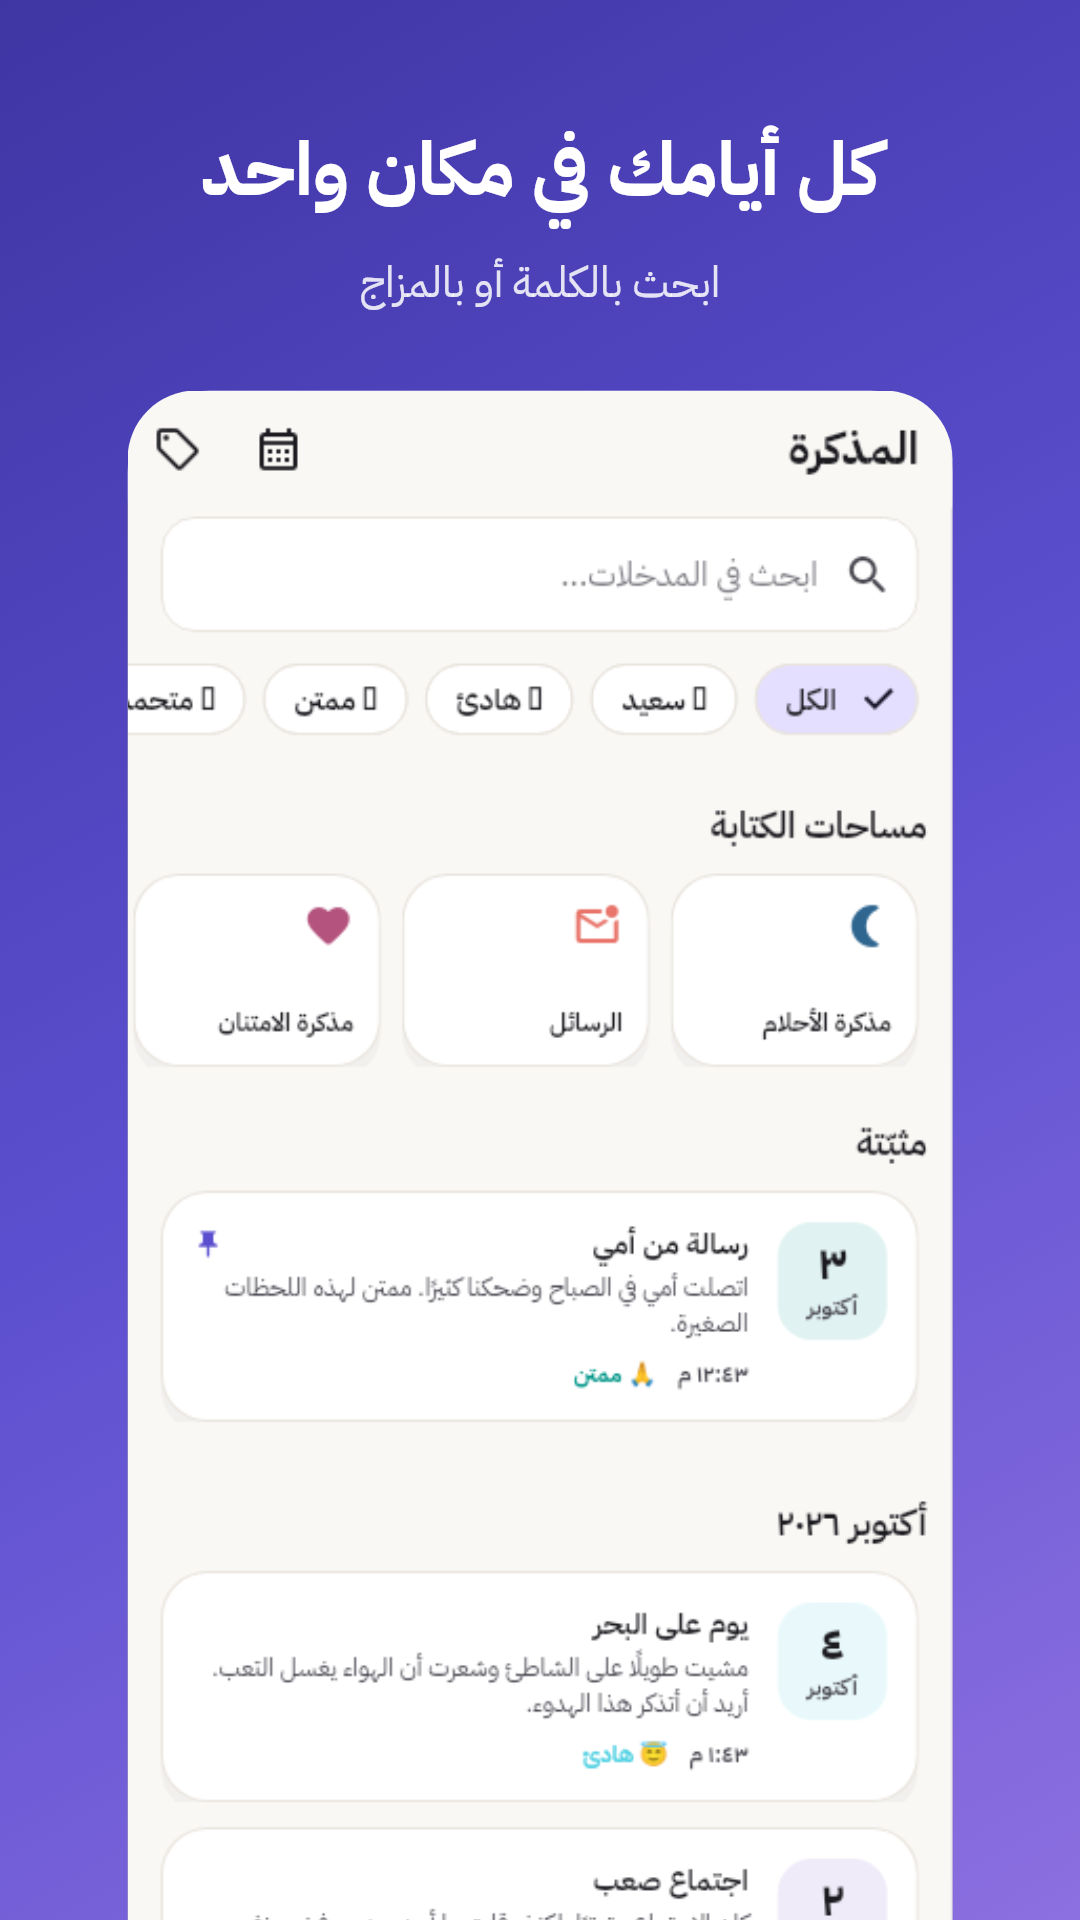
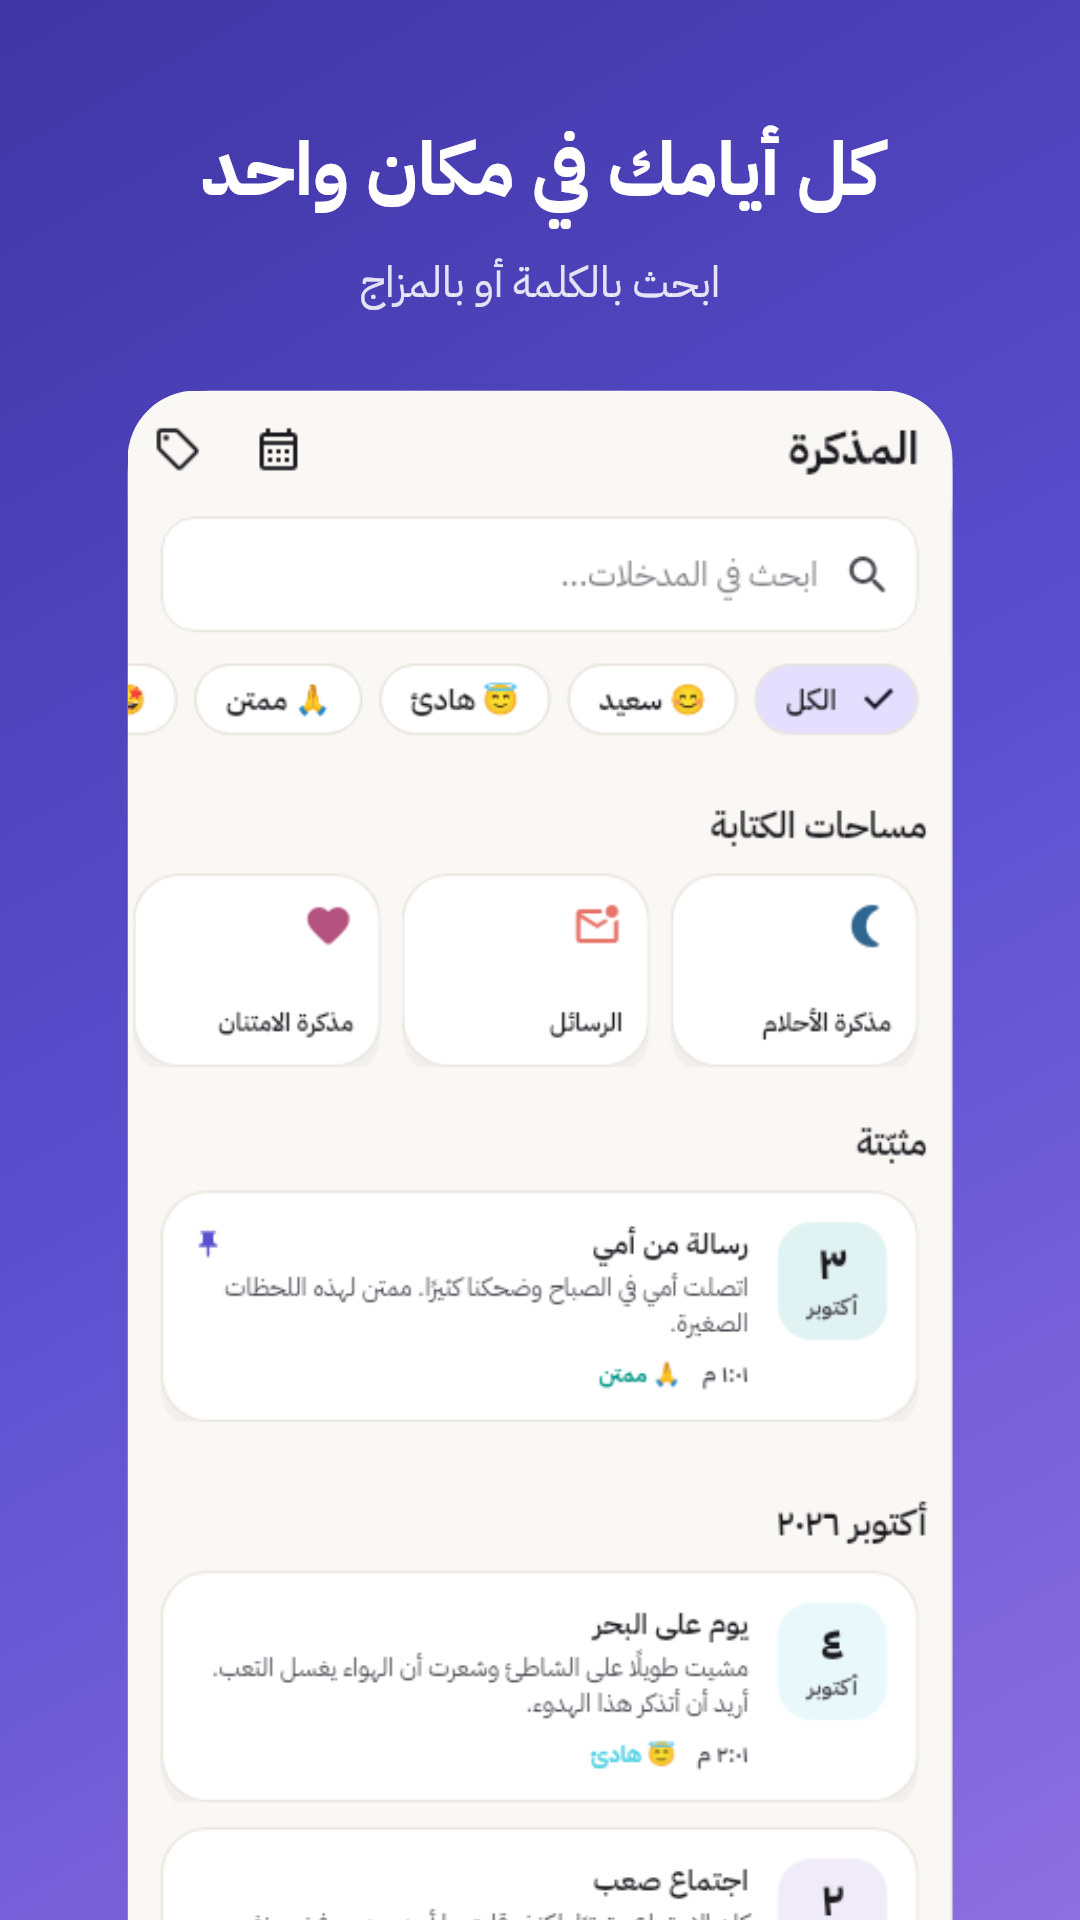
Today: a gentle backup reminder; refreshed store screenshots
The journal lives only on the phone and Android cloud backup is off by
design, so after 5 entries, if no .nabd backup was exported in 30 days,
Today shows a card: back up now (opens Settings) or later (one week).
The backup and snooze dates are device-only and never travel.

This replaces the planned automatic backup to a chosen folder: writing
to a user folder on Android needs a persistent SAF grant that this app
does not have yet, and a backup that silently stops is worse than an
honest reminder.

Store images now show On this day, a fuller journal and emoji in chips.

Claude-Session: https://claude.ai/code/session_01Fxp2EunykQUDPki52RD12T

diff --git a/lib/features/today/today_screen.dart b/lib/features/today/today_screen.dart
@@ -3,6 +3,7 @@ import 'package:flutter_riverpod/flutter_riverpod.dart';
 import 'package:go_router/go_router.dart';
 import 'package:intl/intl.dart';
 
+import '../../core/backup_nudge.dart';
 import '../../core/data_revision.dart';
 import '../../core/l10n/app_localizations.dart';
 import '../../core/memories.dart';
@@ -64,6 +65,8 @@ class _TodayScreenState extends ConsumerState<TodayScreen> {
         ? 0
         : garden.seeds.map((s) => s.growthPoints).reduce((a, b) => a > b ? a : b);
     final memories = Memories.onThisDay(entries, now);
+    final showBackupNudge = BackupNudge.shouldShowNow(entries.length, now);
+    final lastBackup = BackupNudge.lastBackup;
     _quote ??= MotivationService.getTodayQuoteFor(l10n.isArabic);
     final quote = _quote!;
 
@@ -190,6 +193,56 @@ class _TodayScreenState extends ConsumerState<TodayScreen> {
                 ),
               ),
             ),
+
+            // ── Backup reminder ───────────────────────────────────────
+            if (showBackupNudge)
+              SliverToBoxAdapter(
+                child: Padding(
+                  padding: const EdgeInsets.fromLTRB(16, 14, 16, 0),
+                  child: NabdCard(
+                    color: scheme.tertiaryContainer.withValues(alpha: 0.6),
+                    child: Column(
+                      crossAxisAlignment: CrossAxisAlignment.start,
+                      children: [
+                        Row(
+                          children: [
+                            Icon(Icons.shield_outlined, color: scheme.tertiary),
+                            const SizedBox(width: 8),
+                            Text(l10n.t('backupNudge.title'),
+                                style: theme.textTheme.titleSmall),
+                          ],
+                        ),
+                        const SizedBox(height: 6),
+                        Text(
+                          lastBackup == null
+                              ? l10n.t('backupNudge.never')
+                              : l10n.t('backupNudge.days').replaceAll(
+                                  '{n}', '${now.difference(lastBackup).inDays}'),
+                          style: theme.textTheme.bodySmall,
+                        ),
+                        const SizedBox(height: 8),
+                        Row(
+                          mainAxisAlignment: MainAxisAlignment.end,
+                          children: [
+                            TextButton(
+                              onPressed: () async {
+                                await BackupNudge.snoozeNow();
+                                if (mounted) setState(() {});
+                              },
+                              child: Text(l10n.t('backupNudge.later')),
+                            ),
+                            const SizedBox(width: 4),
+                            FilledButton.tonal(
+                              onPressed: () => _open('/settings'),
+                              child: Text(l10n.t('backupNudge.action')),
+                            ),
+                          ],
+                        ),
+                      ],
+                    ),
+                  ),
+                ),
+              ),
 
             // ── On this day ───────────────────────────────────────────
             if (memories.isNotEmpty) ...[

diff --git a/tool/screenshots_test.dart b/tool/screenshots_test.dart
@@ -75,6 +75,10 @@ const _emojiFamily = 'NotoColorEmoji';
 
 ThemeData _withEmoji(ThemeData theme) => theme.copyWith(
       textTheme: theme.textTheme.apply(fontFamilyFallback: const [_emojiFamily]),
+      chipTheme: theme.chipTheme.copyWith(
+        labelStyle: (theme.chipTheme.labelStyle ?? theme.textTheme.labelLarge ?? const TextStyle())
+            .copyWith(fontFamilyFallback: const [_emojiFamily]),
+      ),
     );
 
 Future<void> _loadFonts() async {
@@ -135,10 +139,17 @@ Future<void> _seed() async {
     final (mood, tags, hour) = history[i];
     final day = now.subtract(Duration(days: 6 + i * 3));
     final at = DateTime(day.year, day.month, day.day, hour);
+    const notes = [
+      ('غداء العائلة', 'جلسنا طويلًا حول الطاولة وضحكنا على ذكريات قديمة.'),
+      ('نزهة قصيرة', 'مشيت بعد العصر وشعرت أن رأسي صار أخف.'),
+      ('موعد التسليم', 'العمل كثير هذا الأسبوع، وأحاول ألا أحمله معي إلى البيت.'),
+      ('ليلة طويلة', 'لم أنم جيدًا. كتبت ما يقلقني حتى يهدأ.'),
+    ];
+    final (title, content) = notes[i % notes.length];
     await journal.put('h$i', JournalEntry(
       id: 'h$i',
-      title: '',
-      content: '.',
+      title: title,
+      content: content,
       mood: mood,
       tags: tags,
       createdAt: at,
@@ -170,6 +181,12 @@ Future<void> _seed() async {
     ).toMap());
   }
   await Hive.box(HiveBoxes.settings).put('onboarding_completed', true);
+  // Store art shows a journal that is backed up; the review run shows the
+  // reminder card.
+  if (_store) {
+    await Hive.box(HiveBoxes.settings)
+        .put('last_backup_at', now.toIso8601String());
+  }
 }
 
 Widget _app(Widget home,

diff --git a/lib/core/backup_nudge.dart b/lib/core/backup_nudge.dart
@@ -1,0 +1,49 @@
+import 'package:hive/hive.dart';
+
+import 'storage.dart';
+
+/// A gentle reminder to export a backup. Nabd keeps everything on the phone
+/// and Android cloud backup is off on purpose, so a lost phone loses the
+/// journal unless the writer exports a `.nabd` file now and then.
+class BackupNudge {
+  static const lastBackupKey = 'last_backup_at';
+  static const snoozedUntilKey = 'backup_nudge_snoozed_until';
+
+  /// Not worth a nudge until there is something to lose.
+  static const minEntries = 5;
+  static const remindAfter = Duration(days: 30);
+  static const snooze = Duration(days: 7);
+
+  static bool shouldShow({
+    required int entryCount,
+    required DateTime now,
+    DateTime? lastBackup,
+    DateTime? snoozedUntil,
+  }) {
+    if (entryCount < minEntries) return false;
+    if (snoozedUntil != null && now.isBefore(snoozedUntil)) return false;
+    return lastBackup == null || now.difference(lastBackup) >= remindAfter;
+  }
+
+  static Box get _settings => Hive.box(HiveBoxes.settings);
+
+  static DateTime? _read(String key) {
+    final raw = _settings.get(key);
+    return raw is String ? DateTime.tryParse(raw) : null;
+  }
+
+  static DateTime? get lastBackup => _read(lastBackupKey);
+
+  static bool shouldShowNow(int entryCount, [DateTime? now]) => shouldShow(
+        entryCount: entryCount,
+        now: now ?? DateTime.now(),
+        lastBackup: lastBackup,
+        snoozedUntil: _read(snoozedUntilKey),
+      );
+
+  static Future<void> recordBackup([DateTime? at]) => _settings.put(
+      lastBackupKey, (at ?? DateTime.now()).toIso8601String());
+
+  static Future<void> snoozeNow([DateTime? now]) => _settings.put(
+      snoozedUntilKey, (now ?? DateTime.now()).add(snooze).toIso8601String());
+}

diff --git a/test/backup_nudge_test.dart b/test/backup_nudge_test.dart
@@ -1,0 +1,47 @@
+import 'package:flutter_test/flutter_test.dart';
+import 'package:nabd/core/backup_nudge.dart';
+import 'package:nabd/services/backup_service.dart';
+
+void main() {
+  final now = DateTime(2026, 10, 4, 12);
+
+  test('waits until there is something to lose', () {
+    expect(BackupNudge.shouldShow(entryCount: 4, now: now), isFalse);
+    expect(BackupNudge.shouldShow(entryCount: 5, now: now), isTrue);
+  });
+
+  test('a recent backup silences it for 30 days', () {
+    bool show(int daysAgo) => BackupNudge.shouldShow(
+          entryCount: 20,
+          now: now,
+          lastBackup: now.subtract(Duration(days: daysAgo)),
+        );
+    expect(show(3), isFalse);
+    expect(show(29), isFalse);
+    expect(show(30), isTrue);
+  });
+
+  test('"later" hides it for a week', () {
+    expect(
+      BackupNudge.shouldShow(
+        entryCount: 20,
+        now: now,
+        snoozedUntil: now.add(const Duration(days: 2)),
+      ),
+      isFalse,
+    );
+    expect(
+      BackupNudge.shouldShow(
+        entryCount: 20,
+        now: now,
+        snoozedUntil: now.subtract(const Duration(minutes: 1)),
+      ),
+      isTrue,
+    );
+  });
+
+  test('backup dates stay on this phone and never travel in a backup', () {
+    expect(BackupService.isDeviceKey(BackupNudge.lastBackupKey), isTrue);
+    expect(BackupService.isDeviceKey(BackupNudge.snoozedUntilKey), isTrue);
+  });
+}

diff --git a/lib/core/l10n/app_strings.dart b/lib/core/l10n/app_strings.dart
@@ -869,6 +869,11 @@ class S {
     'daypart.short.afternoon': 'الظهيرة',
     'daypart.short.evening': 'المساء',
     'daypart.short.night': 'الليل',
+    'backupNudge.title': 'احمِ يومياتك',
+    'backupNudge.never': 'يومياتك محفوظة على هذا الهاتف فقط، ولم تنشئ نسخة احتياطية بعد. إن ضاع الهاتف تضيع معه.',
+    'backupNudge.days': 'آخر نسخة احتياطية قبل {n} يومًا. يومياتك محفوظة على هذا الهاتف فقط.',
+    'backupNudge.action': 'نسخة احتياطية الآن',
+    'backupNudge.later': 'لاحقًا',
   };
 
   static const Map<String, String> en = <String, String>{
@@ -1737,6 +1742,11 @@ class S {
     'daypart.short.afternoon': 'Afternoon',
     'daypart.short.evening': 'Evening',
     'daypart.short.night': 'Night',
+    'backupNudge.title': 'Keep your journal safe',
+    'backupNudge.never': 'Your journal lives only on this phone, and you haven\'t made a backup yet. If the phone is lost, so is the journal.',
+    'backupNudge.days': 'Your last backup was {n} days ago. Your journal lives only on this phone.',
+    'backupNudge.action': 'Back up now',
+    'backupNudge.later': 'Later',
   };
 
   /// Every key known to the table, used by the parity test.

diff --git a/lib/features/settings/settings_screen.dart b/lib/features/settings/settings_screen.dart
@@ -14,6 +14,7 @@ import 'package:path/path.dart' as p;
 import 'package:share_plus/share_plus.dart';
 
 import '../../core/data_revision.dart';
+import '../../core/backup_nudge.dart';
 import '../../core/l10n/app_localizations.dart';
 import '../../core/theme/app_colors.dart';
 import '../../core/theme/gender_themes.dart';
@@ -757,6 +758,7 @@ class _SettingsScreenState extends ConsumerState<SettingsScreen> {
           await target.writeAsBytes(bytes, flush: true);
         }
       }
+      await BackupNudge.recordBackup();
       messenger.showSnackBar(
         SnackBar(
           content: Text(

diff --git a/lib/services/backup_service.dart b/lib/services/backup_service.dart
@@ -732,6 +732,9 @@ class BackupService {
     'garden_growth_today',
     // Consent to the phone's speech service is given per device.
     'dictation_notice_seen',
+    // A restored phone has not been backed up yet, whatever the source said.
+    'last_backup_at',
+    'backup_nudge_snoozed_until',
   };
 
   static bool isEntitlementKey(String key) =>
